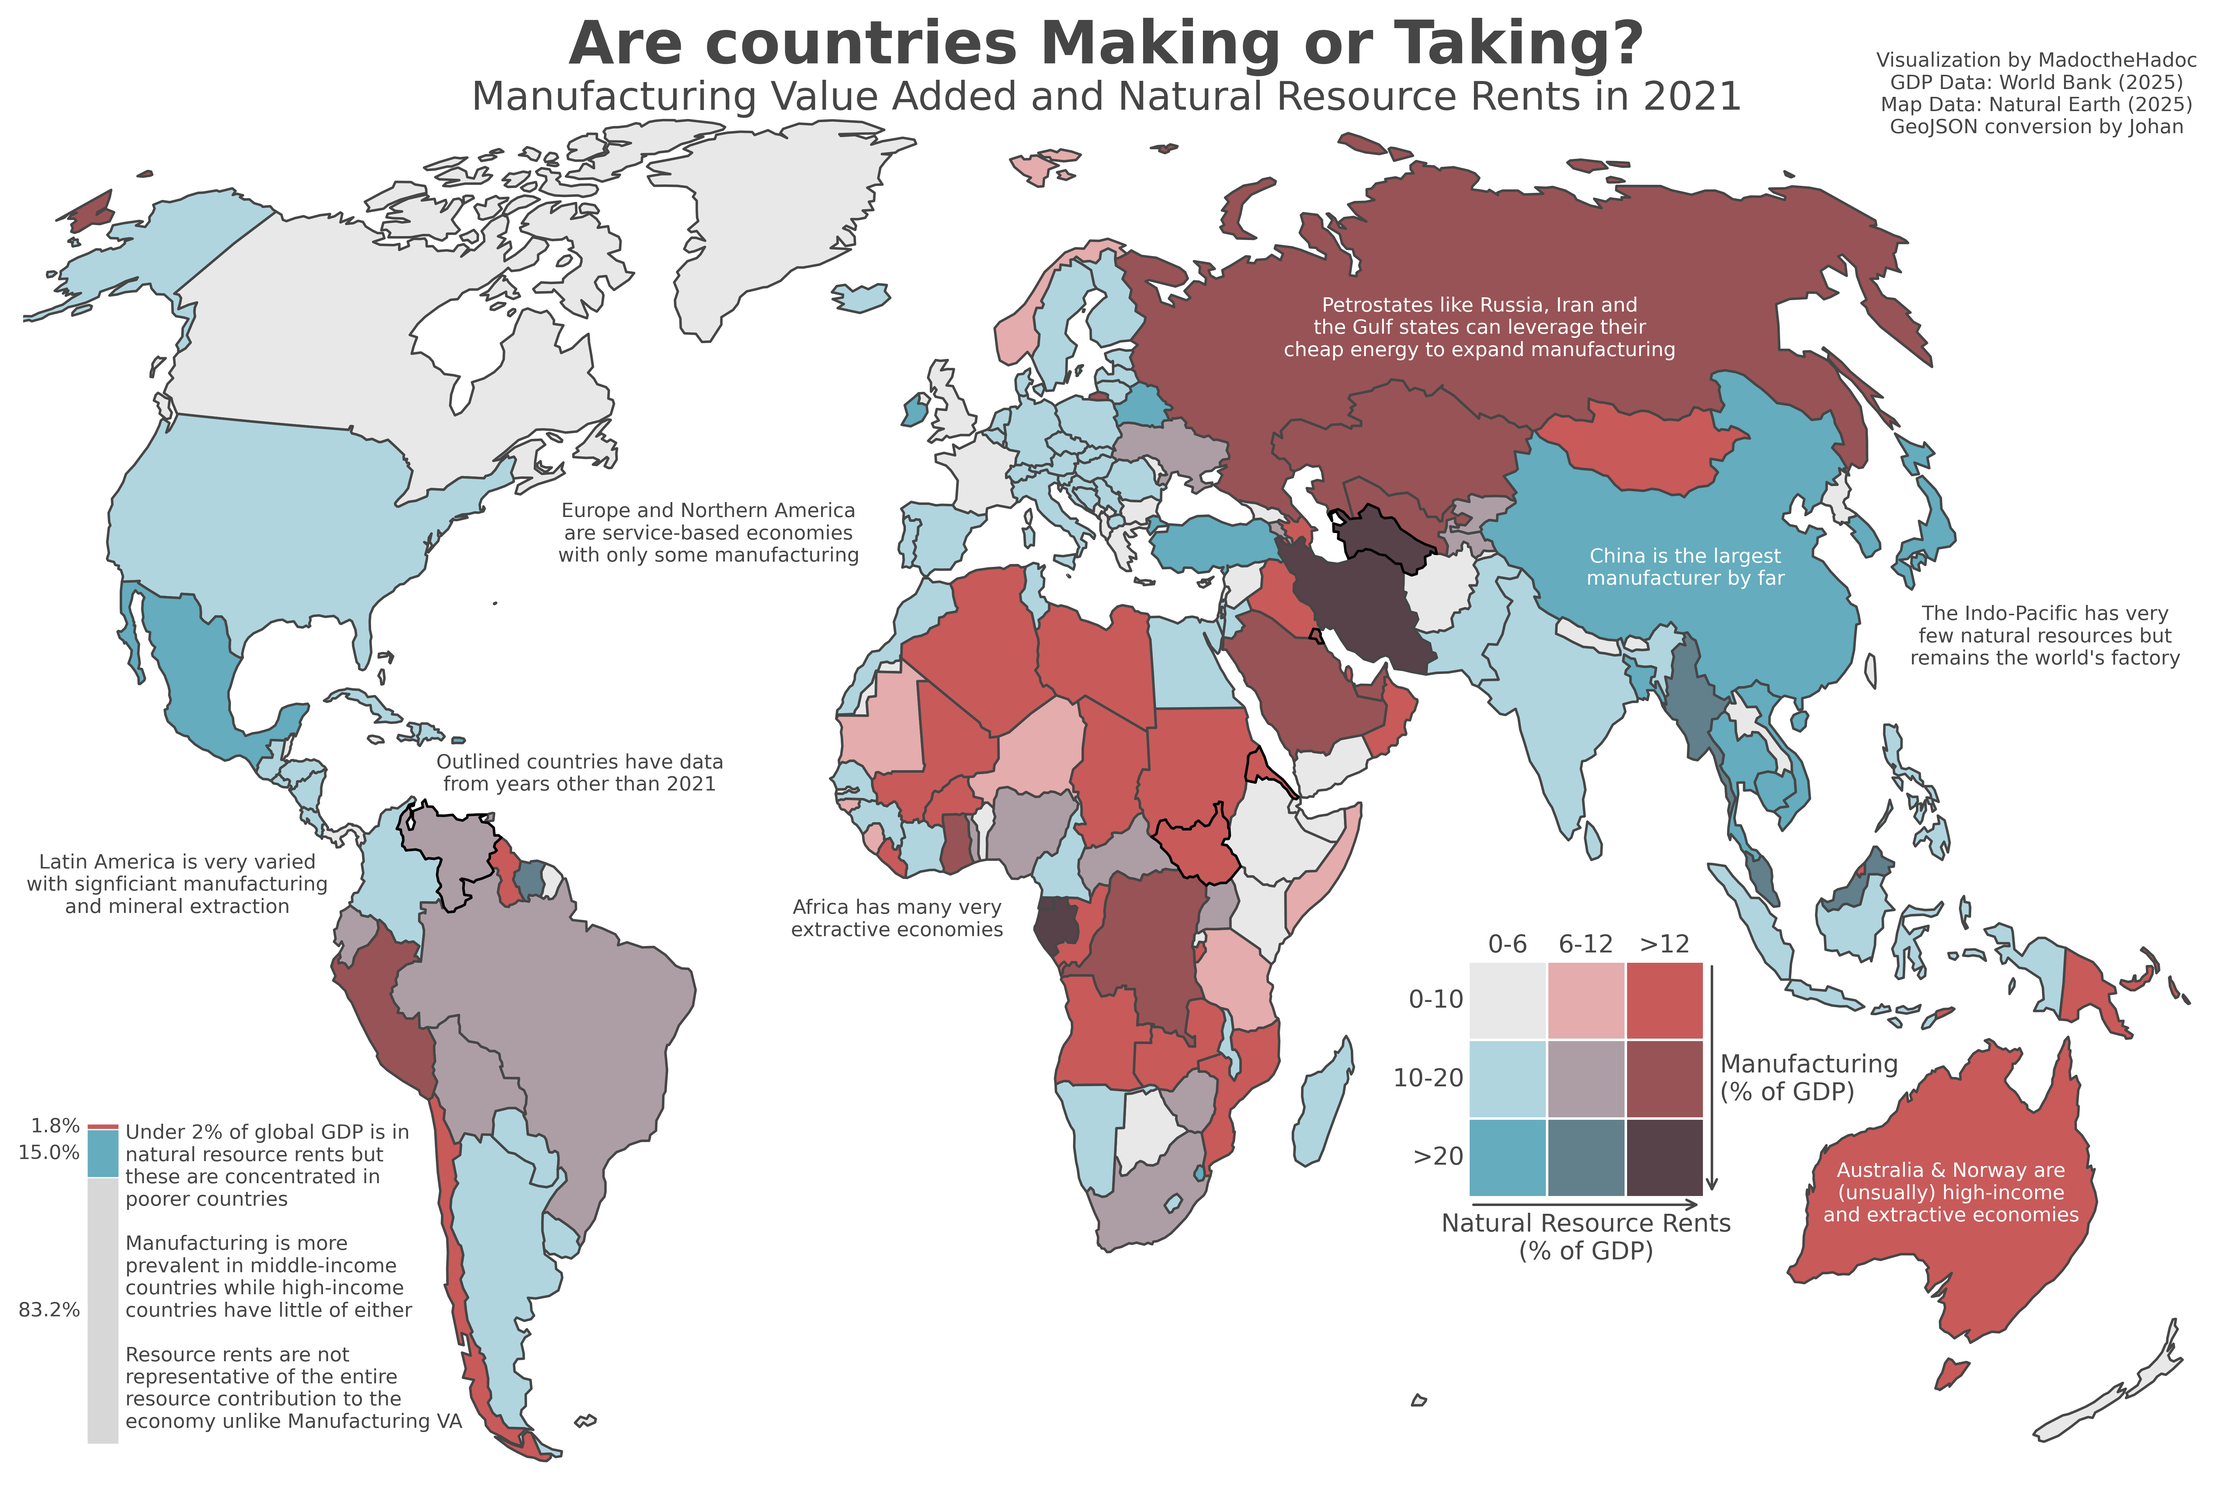
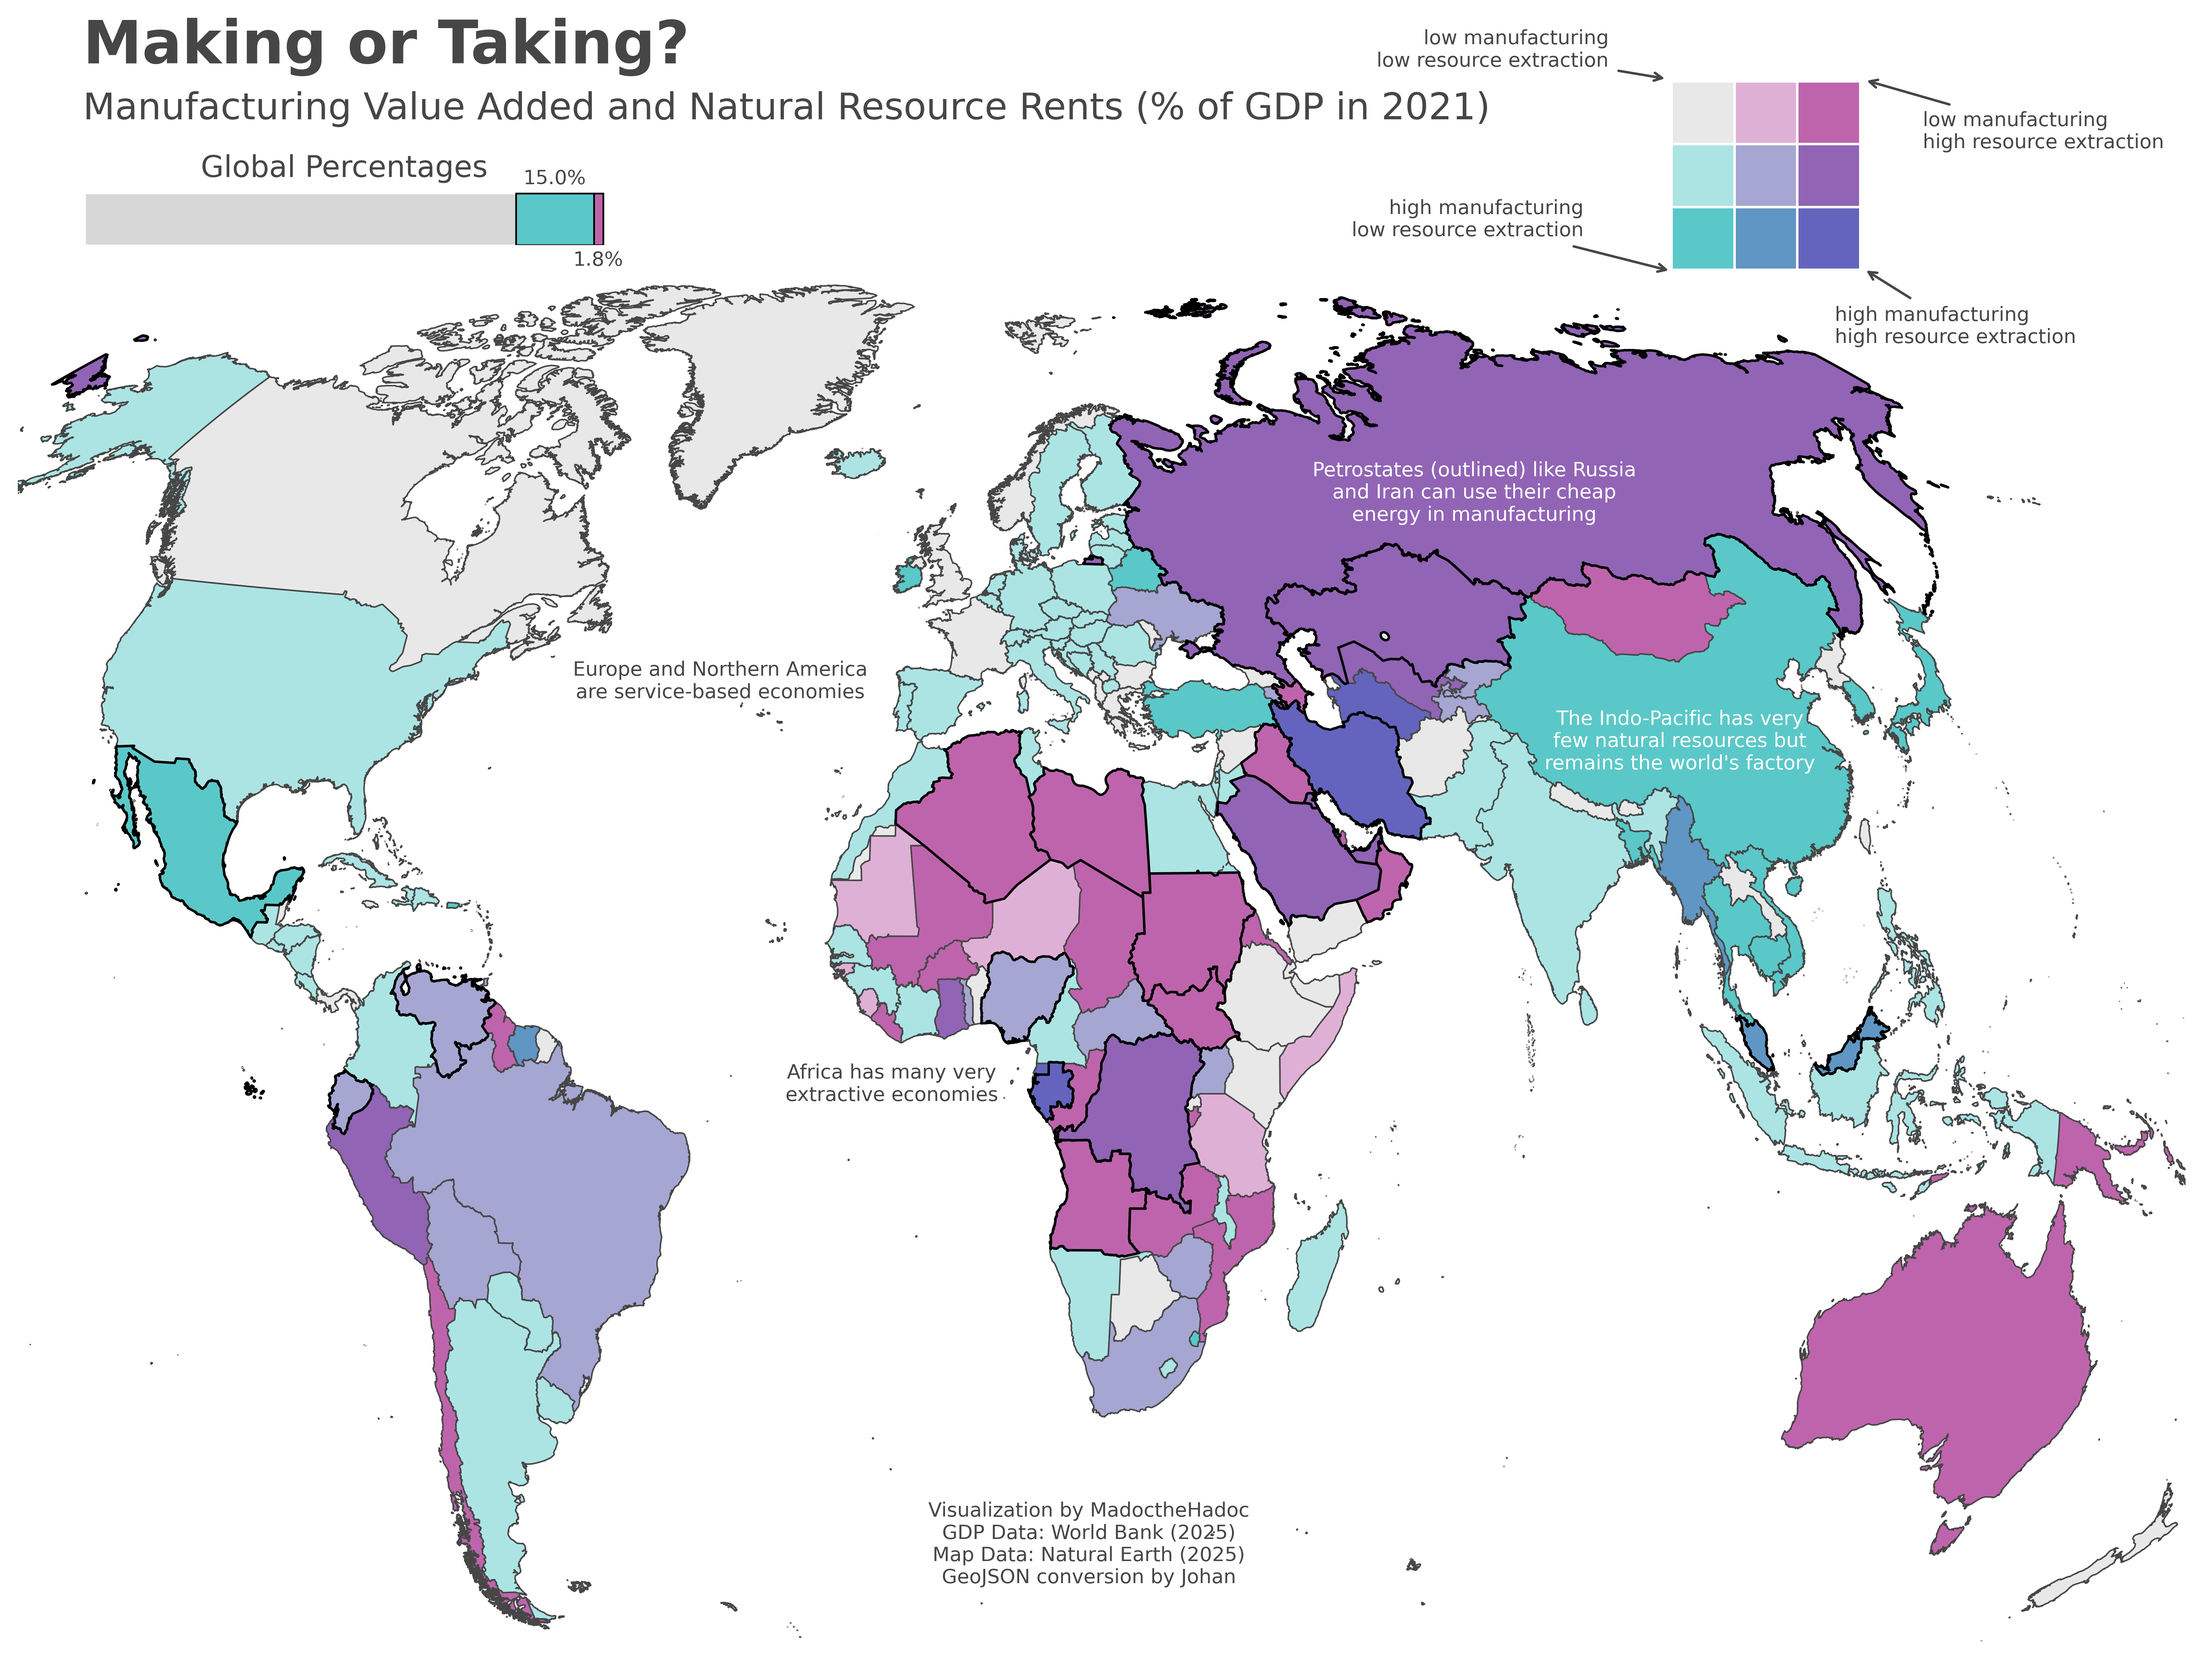
Fun Reddit changes.

diff --git a/scripts/ResourcesManufacturing.py b/scripts/ResourcesManufacturing.py
@@ -15,15 +15,19 @@ INDICATORS = {
 }
 CACHE_FILE = f"cache/resource_manufacturing_{DATA_YEAR}.pkl"
 COLORS = [
-    "#e8e8e8", "#e4acac", "#c85a5a",
-    "#b0d5df", "#ad9ea5", "#985356",
-    "#64acbe", "#627f8c", "#574249",
+    "#e8e8e8", "#dfb0d6", "#be64ac",
+    "#ace4e4", "#a6a6d3", "#9164b5",
+    "#5ac8c8", "#5f96c3", "#6464be",
 ]
 ANNO_COLOR = "#464646"
 BAR_COLORS = ["#d7d7d7", COLORS[6], COLORS[2]]
 BAR_VALUES = [0.832, 0.15, 0.018]
 
-WORLD_URL = "https://raw.githubusercontent.com/johan/world.geo.json/master/countries.geo.json"
+WORLD_URL = "https://raw.githubusercontent.com/datasets/geo-countries/master/data/countries.geojson"
+
+LARGE_ECONOMIES = [
+    'CAN', 'BRA', 'CHN', 'DEU', 'ITA', 'FRA', 'USA', 'GBR', 'IND', 'JPN'
+]
 
 EPS = 0.000000001
 MAN_BINS = [-EPS, 10, 20, 100 + EPS]
@@ -35,6 +39,35 @@ OLDER_DATA = [  # Manufacturing, resources
     ("SSD", "South Sudan", 4, 13.1),
     ("TKM", "Turkmenistan", 20, 13.5),
     ("KWT", "Kuwait", 11, 29.3)
+]
+
+OPEC_PLUS = [
+    # OPEC Members
+    'DZA',  # Algeria
+    'AGO',  # Angola
+    'COD',  # Congo (Brazzaville)
+    'GAB',  # Gabon
+    'IRN',  # Iran
+    'IRQ',  # Iraq
+    'KWT',  # Kuwait
+    'LBY',  # Libya
+    'NGA',  # Nigeria
+    'SAU',  # Saudi Arabia
+    'ARE',  # United Arab Emirates
+    'VEN',  # Venezuela
+    'ECU',  # Ecuador (rejoined in 2024)
+
+    # Non-OPEC Partners (OPEC+)
+    'RUS',  # Russia
+    'KAZ',  # Kazakhstan
+    'AZE',  # Azerbaijan
+    'BHR',  # Bahrain
+    'BRN',  # Brunei
+    'MYS',  # Malaysia
+    'MEX',  # Mexico
+    'OMN',  # Oman
+    'SSD',  # South Sudan
+    'SDN',  # Sudan
 ]
 
 def fetch_world_bank_data():
@@ -94,7 +127,7 @@ def create_legend(fig, ax, colors, man_bins, res_bins):
         ax,
         width="100%",
         height="100%",
-        bbox_to_anchor=(0.61, 0.265, 0.15, 0.15),  # (x, y, width, height) in figure coordinates
+        bbox_to_anchor=(0.62, 0.27, 0.15, 0.15),  # (x, y, width, height) in figure coordinates
         bbox_transform=fig.transFigure,  # Use figure coordinates
     )
     
@@ -147,6 +180,64 @@ def create_legend(fig, ax, colors, man_bins, res_bins):
     legend_ax.set_ylim(-0.2, man_length + 0.2)
     legend_ax.set_aspect('equal')
     legend_ax.axis('off')
+    
+def create_simplified_legend(fig, ax, colors, man_bins, res_bins):
+    """Create a 3x3 bivariate legend grid with corner annotations using arrows."""
+    legend_ax = inset_axes(
+        ax,
+        width="100%",
+        height="100%",
+        bbox_to_anchor=(0.69, 0.88, 0.12, 0.12),
+        bbox_transform=fig.transFigure,
+    )
+    res_length = len(res_bins) - 1
+    man_length = len(man_bins) - 1
+
+    # Draw colored squares
+    for i in range(res_length):
+        for j in range(man_length):
+            color_idx = i * man_length + j
+            legend_ax.add_patch(plt.Rectangle((j, res_length-1-i), 1, 1, facecolor=colors[color_idx], edgecolor='white'))
+
+    # Define the labels and positions for each corner
+    smol = 0.03
+    corners = [
+        {"label": "low manufacturing\nlow resource extraction",
+         "xy": (-smol, res_length + smol),
+         "xytext": (-1.0, res_length + 0.5),
+         "ha": 'right'},
+        {"label": "low manufacturing\nhigh resource extraction",
+         "xy": (man_length + smol, res_length + smol),
+         "xytext": (man_length + 1.0, res_length - 0.8),
+         "ha": 'left'},
+        {"label": "high manufacturing\nlow resource extraction",
+         "xy": (smol, -smol),
+         "xytext": (-1.4, 0.8),
+         "ha": 'right'},
+        {"label": "high manufacturing\nhigh resource extraction",
+         "xy": (man_length + smol, smol),
+         "xytext": (man_length - 0.4, -0.9),
+         "ha": 'left'}
+    ]
+
+    # Add corner annotations with arrows using a for loop
+    for corner in corners:
+        legend_ax.annotate(
+            corner["label"],
+            xy=corner["xy"],
+            xytext=corner["xytext"],
+            arrowprops=dict(arrowstyle='->', color=ANNO_COLOR, lw=1),
+            va='center',
+            ha=corner["ha"],
+            fontsize=8,
+            color=ANNO_COLOR
+        )
+
+    # Axis limits and styling
+    legend_ax.set_xlim(-0.2, res_length + 0.2)
+    legend_ax.set_ylim(-0.2, man_length + 0.2)
+    legend_ax.set_aspect('equal')
+    legend_ax.axis('off')
 
 def create_bar(fig, ax, colors, values):
     """Create a 3x3 bivariate legend grid with ranges labeled inside each cell."""
@@ -155,80 +246,78 @@ def create_bar(fig, ax, colors, values):
         ax,
         width="100%",
         height="100%",
-        bbox_to_anchor=(0.14, 0.135, 0.15, 0.18),  # (x, y, width, height) in figure coordinates
+        bbox_to_anchor=(0.16, 0.83, 0.20, 0.20),  # (x, y, width, height) in figure coordinates
         bbox_transform=fig.transFigure,  # Use figure coordinates
     )
 
     # Bar dimensions
     bar_width = 0.1  # Width of the bar
-    text_gap = 0.02
+    text_gap = 0.01
+    title_gap = 0.02
     
-    cumulative_height = 0  # Track the cumulative height of segments
+    cumulative_width = 0  # Track the cumulative height of segments
+    top = True
+    first = True
     for value, color in zip(values, colors):
         # Draw the segment
         rect = plt.Rectangle(
-            (0, cumulative_height),  # Lower-left corner
-            bar_width,  # Width of the bar
-            value,  # Height proportional to percentage
+            (cumulative_width, 0),  # Lower-left corner
+            value,
+            bar_width,
             facecolor=color,
-            edgecolor='white',
-            linewidth=0.5
+            edgecolor='white' if first else 'black',
+            linewidth=0.5 if first else 0.7
         )
         bar_ax.add_patch(rect)
 
         # Add percentage label in the middle of the segment
-        segment_height = value
-        label_x = -text_gap
-        label_y = cumulative_height + segment_height / 2
-        bar_ax.text(
-            label_x, label_y,
-            f"{(value*100):.1f}%",
-            ha='right',
-            va='center',
-            fontsize=8,
-            color=ANNO_COLOR
-        )
-
+        if not first:
+            label_x = cumulative_width + value / 2
+            label_y = bar_width + text_gap if top else -text_gap
+            bar_ax.text(
+                label_x, label_y,
+                f"{(value*100):.1f}%",
+                ha='center',
+                va='bottom' if top else 'top',
+                fontsize=8,
+                color=ANNO_COLOR
+            )
+            top = not top # Alternating top/bottom
+        first = False
         # Update cumulative height
-        cumulative_height += segment_height
-
-    bar_ax.text(bar_width + text_gap, 1.0,
-                "Under 2% of global GDP is in\nnatural resource rents but\n" +
-                "these are concentrated in\npoorer countries\n\n" +
-                "Manufacturing is more\nprevalent in middle-income\n" +
-                "countries while high-income\ncountries have little of either\n\n" +
-                "Resource rents are not\nrepresentative of the entire\n" +
-                "resource contribution to the\neconomy unlike Manufacturing VA",
-                   va='top', ha='left', fontsize=8, color=ANNO_COLOR)
-
+        cumulative_width += value
+    
+    bar_ax.text(0.5, bar_width + title_gap, "Global Percentages",
+        va='bottom', ha='center', fontsize=12, color=ANNO_COLOR)
+    
     # Set axis limits to show the entire bar
-    bar_ax.set_xlim(0, 1)
-    bar_ax.set_ylim(0, 1)
+    bar_ax.set_xlim(0, 1.1)
+    bar_ax.set_ylim(0, 0.2)
     bar_ax.set_aspect('equal')
     bar_ax.axis('off')
 
 def annotate_map(ax):
     locations = [
-        (-30, 45, False),
+        (-28, 47, False),
         (-8, 0, False),
-        (126, 33, False),
-        (84, 41, True),
-        (115, -32, True),
-        (-92, 4, False),
+        # (126, 33, False),
+        (84, 40, True),
+        # (115, -32, True),
+        # (-92, 4, False),
         (60, 69, True),
-        (-45, 17, False),
-        (125, 95, False)
+        # (-45, 17, False),
+        (15, -55, False)
     ]  # x, y coordinates for annotations
     
     labels = [
-        "Europe and Northern America\nare service-based economies\nwith only some manufacturing",
+        "Europe and Northern America\nare service-based economies",
         "Africa has many very\nextractive economies",
         "The Indo-Pacific has very\nfew natural resources but\nremains the world's factory",
-        "China is the largest\nmanufacturer by far",
-        "Australia & Norway are\n(unsually) high-income\nand extractive economies",
-        "Latin America is very varied\nwith signficiant manufacturing\nand mineral extraction",
-        "Petrostates like Russia, Iran and\nthe Gulf states can leverage their\ncheap energy to expand manufacturing",
-        "Outlined countries have data\nfrom years other than 2021",
+        # "China is the largest\nmanufacturer by far",
+        # "Australia & Norway are\n(unsually) high-income\nand extractive economies",
+        # "Latin America is very varied\nwith signficiant manufacturing\nand mineral extraction",
+        "Petrostates (outlined) like Russia\nand Iran can use their cheap\nenergy in manufacturing",
+        # "Outlined countries have data\nfrom years other than 2021",
         "Visualization by MadoctheHadoc\nGDP Data: World Bank (2025)\n" +
         "Map Data: Natural Earth (2025)\nGeoJSON conversion by Johan\n",
     ]
@@ -243,11 +332,12 @@ def annotate_map(ax):
 def get_world_data(df_cleaned, projection_epsg):
     # Load modern GeoJSON
     world = gpd.read_file(WORLD_URL)
-
+    world.loc[world['name'] == 'France', 'ISO3166-1-Alpha-3'] = 'FRA'
+    world.loc[world['name'] == 'France', 'ISO3166-1-Alpha-2'] = 'FR'
     # Merge World Bank data
     # Might have to update 'id' with whatever print(world.columns comes up with)
-    world_data = world.merge(df_cleaned, left_on='id', right_on='ISO3', how='left')
-
+    world_data = world.merge(df_cleaned, left_on='ISO3166-1-Alpha-3', right_on='ISO3', how='left')
+    
     # Fill NaN values
     world_data['Manufacturing_pct'] = world_data['Manufacturing_pct'].fillna(0)
     world_data['ResourceRents_pct'] = world_data['ResourceRents_pct'].fillna(0)
@@ -261,9 +351,13 @@ def get_world_data(df_cleaned, projection_epsg):
         lambda row: assign_bivariate_class(row, MAN_BINS, RES_BINS), axis=1
     )
     
+    world_data['is_large_economy'] = world_data['ISO3'].isin(LARGE_ECONOMIES)
+    
     # Add a column to flag countries in OLDER_DATA
     older_iso3 = [country[0] for country in OLDER_DATA]
     world_data['is_older_data'] = world_data['ISO3'].isin(older_iso3)
+    world_data['in_opec'] = world_data['ISO3'].isin(OPEC_PLUS)
+
 
     # Reproject to desired projection
     world_data = world_data.to_crs(projection_epsg)
@@ -286,13 +380,14 @@ def visualize(df_cleaned, projection_epsg="ESRI:54042"):
                 ax=ax,
                 legend=False,
                 alpha=1.0,
-                linewidth=1.0,
+                linewidth=0.6,
                 edgecolor=ANNO_COLOR
             )
+            
 
     # Plot countries in OLDER_DATA with a thicker black outline
-    older_data_countries = world_data[world_data['is_older_data']]
-    older_data_countries.plot(
+    highlight_countries = world_data[world_data['in_opec']]
+    highlight_countries.plot(
         ax=ax,
         color='none',  # No fill
         edgecolor='black',  # Thick black outline
@@ -301,7 +396,7 @@ def visualize(df_cleaned, projection_epsg="ESRI:54042"):
     )
 
     # Add legend as a separate inset axis
-    create_legend(fig, ax, COLORS, MAN_BINS, RES_BINS)
+    create_simplified_legend(fig, ax, COLORS, MAN_BINS, RES_BINS)
 
     # Add visualization of overall economy
     create_bar(fig, ax, BAR_COLORS, BAR_VALUES)
@@ -310,14 +405,14 @@ def visualize(df_cleaned, projection_epsg="ESRI:54042"):
     annotate_map(ax)
     
     # Main title
-    ax.set_title('Are countries Making or Taking?',
-        fontsize=24, fontweight='bold', y=1.02, color=ANNO_COLOR)
+    ax.set_title('Making or Taking?',
+        fontsize=24, fontweight='bold', x=0.03, y=1.14, ha='left', color=ANNO_COLOR)
 
     # Subtitle with different styling
     ax.text(
-        0.5, 0.997,
-        f'Manufacturing Value Added and Natural Resource Rents in {DATA_YEAR}',
-        fontsize=16, color=ANNO_COLOR, ha='center', transform=ax.transAxes
+        x=0.03, y=1.11,
+        s=f'Manufacturing Value Added and Natural Resource Rents (% of GDP in {DATA_YEAR})',
+        fontsize=15, color=ANNO_COLOR, ha='left', transform=ax.transAxes
     )
     ax.axis('off')
 
